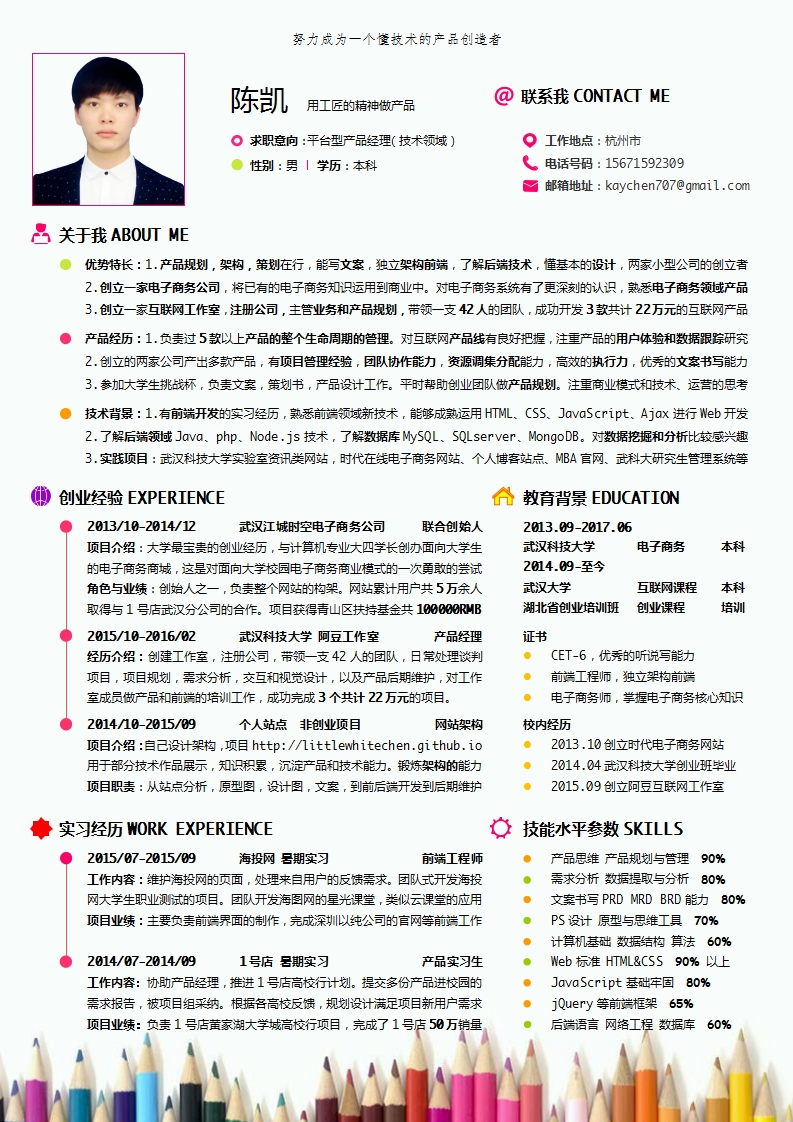
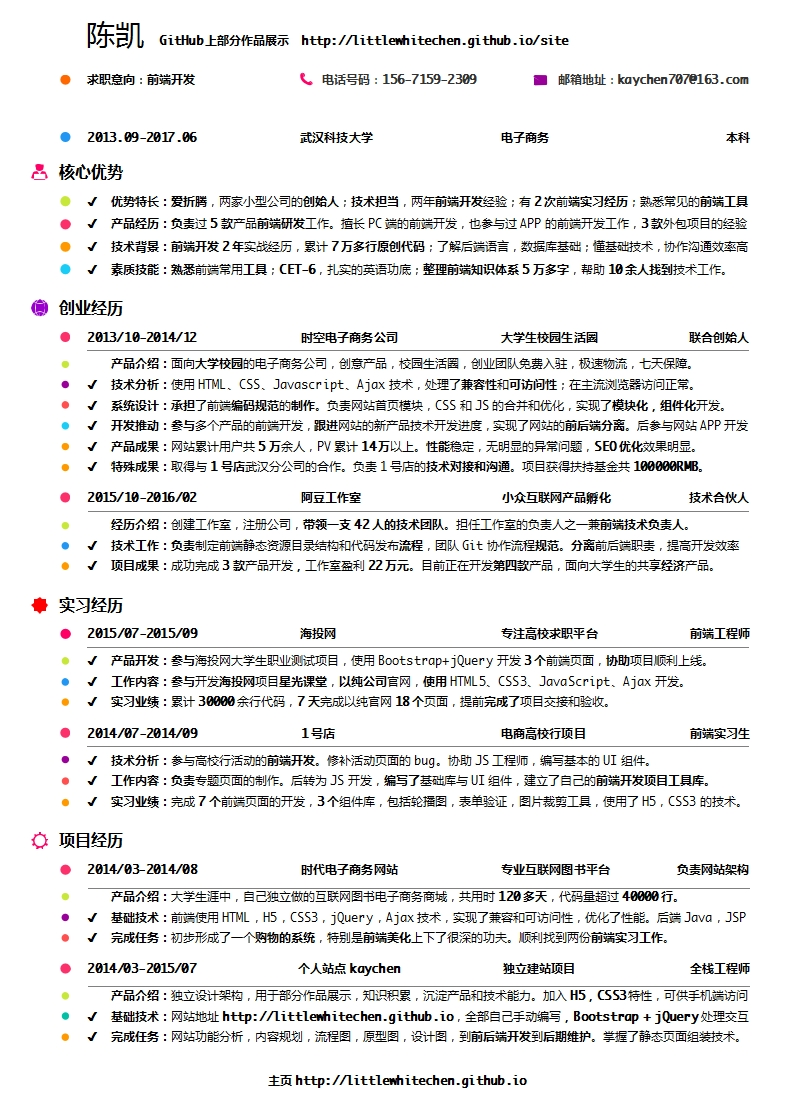
简历修改

diff --git a/pages/4resume.md b/pages/4resume.md
@@ -5,7 +5,8 @@ permalink: /Resume/
 icon: glyphicon-user
 ---
 
-我的个人简历在线版,About the online version [resume](http://littlewhitechen.github.io/online-resume/#/)
+我的个人简历在线版,此简历只是一个粗略的介绍，详细的简历请见下方图片简历，或者下载PDF版本。About the online version [在线版简历地址](http://littlewhitechen.github.io/online-resume/#/)
 
 
 ![我的个人简历](../img/blog/resume.jpg)
+![我的个人简历pdf版本](../img/blog/resume.pdf)
